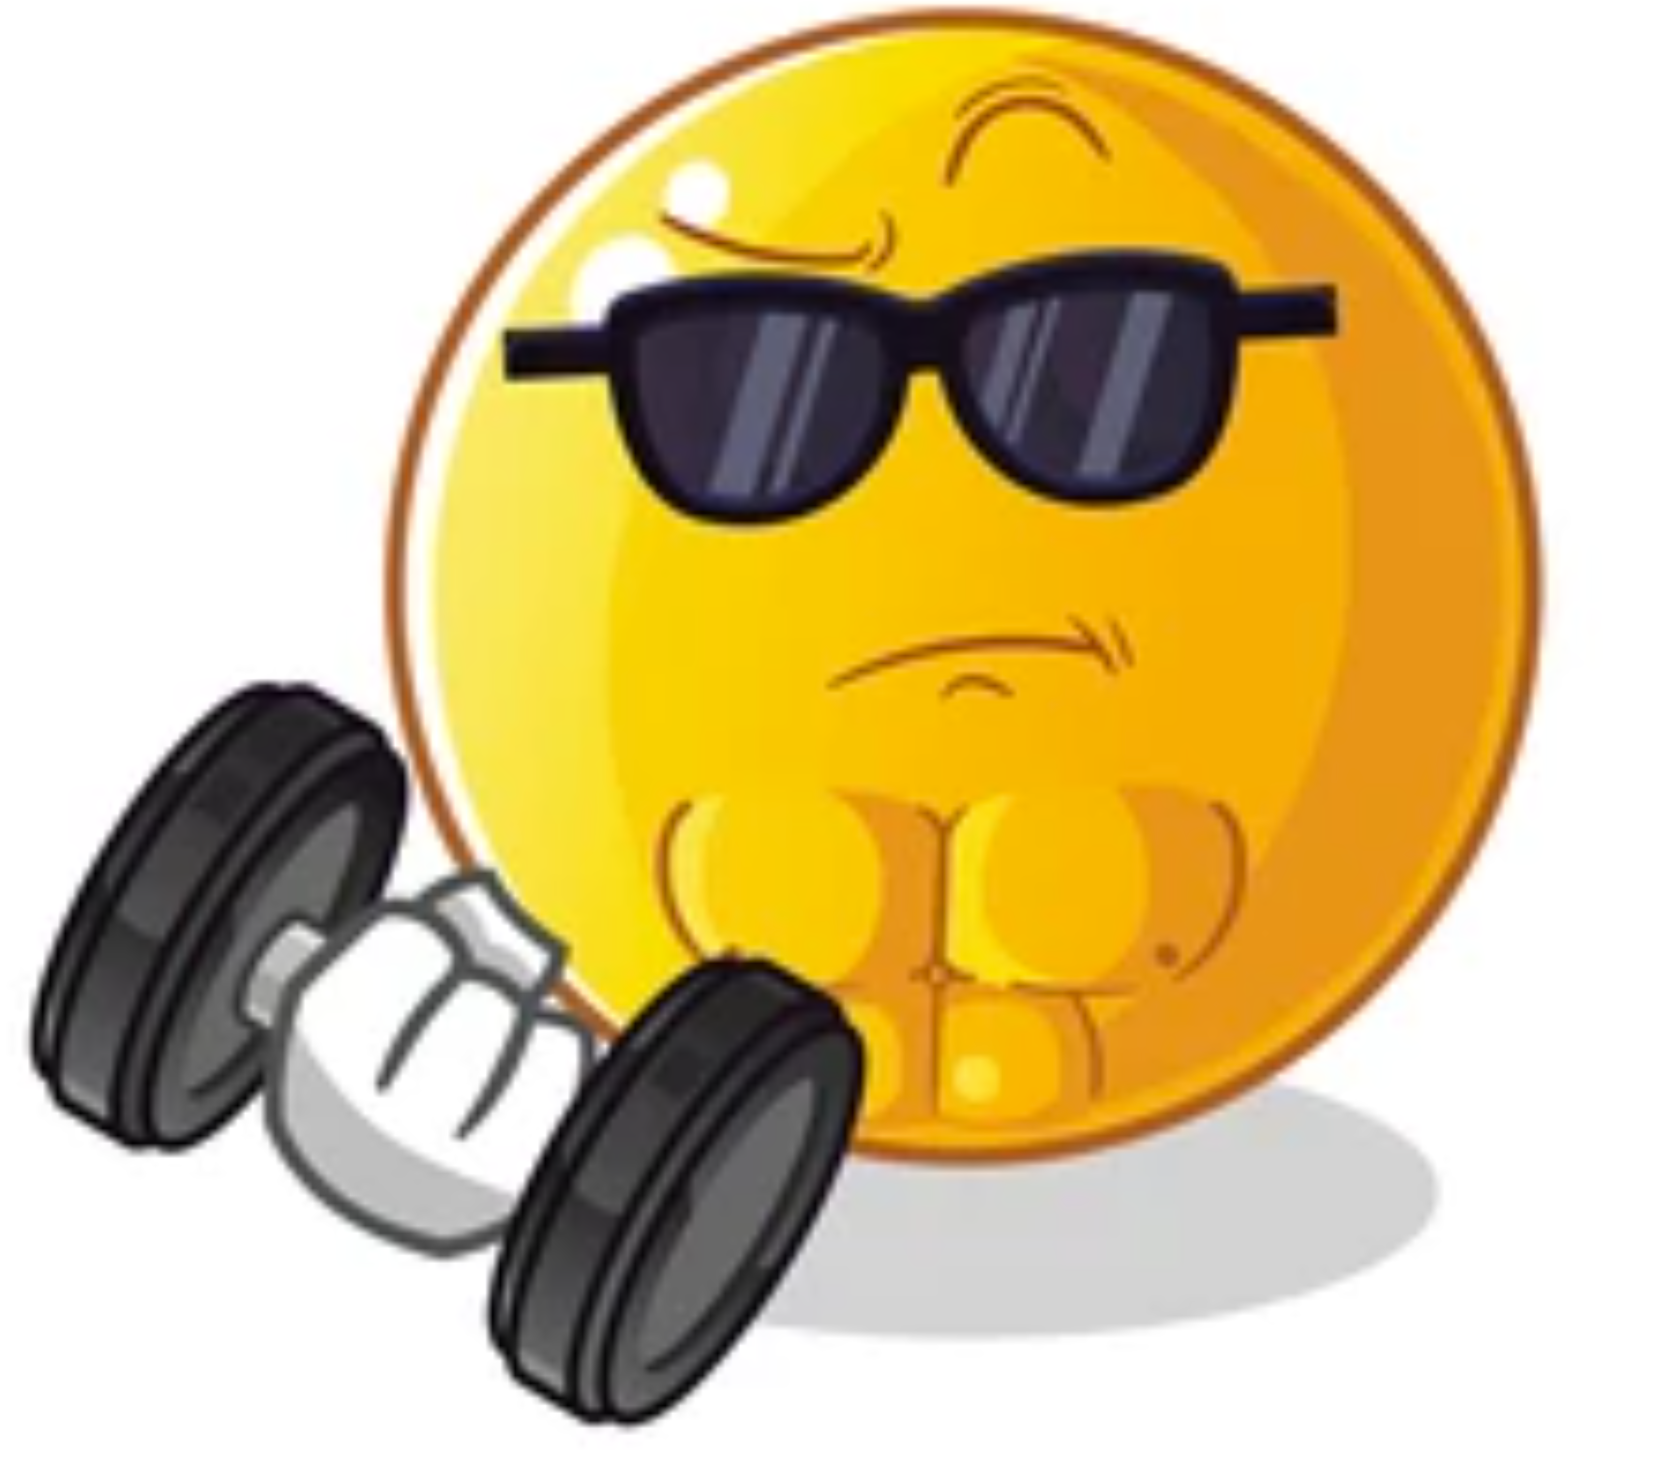
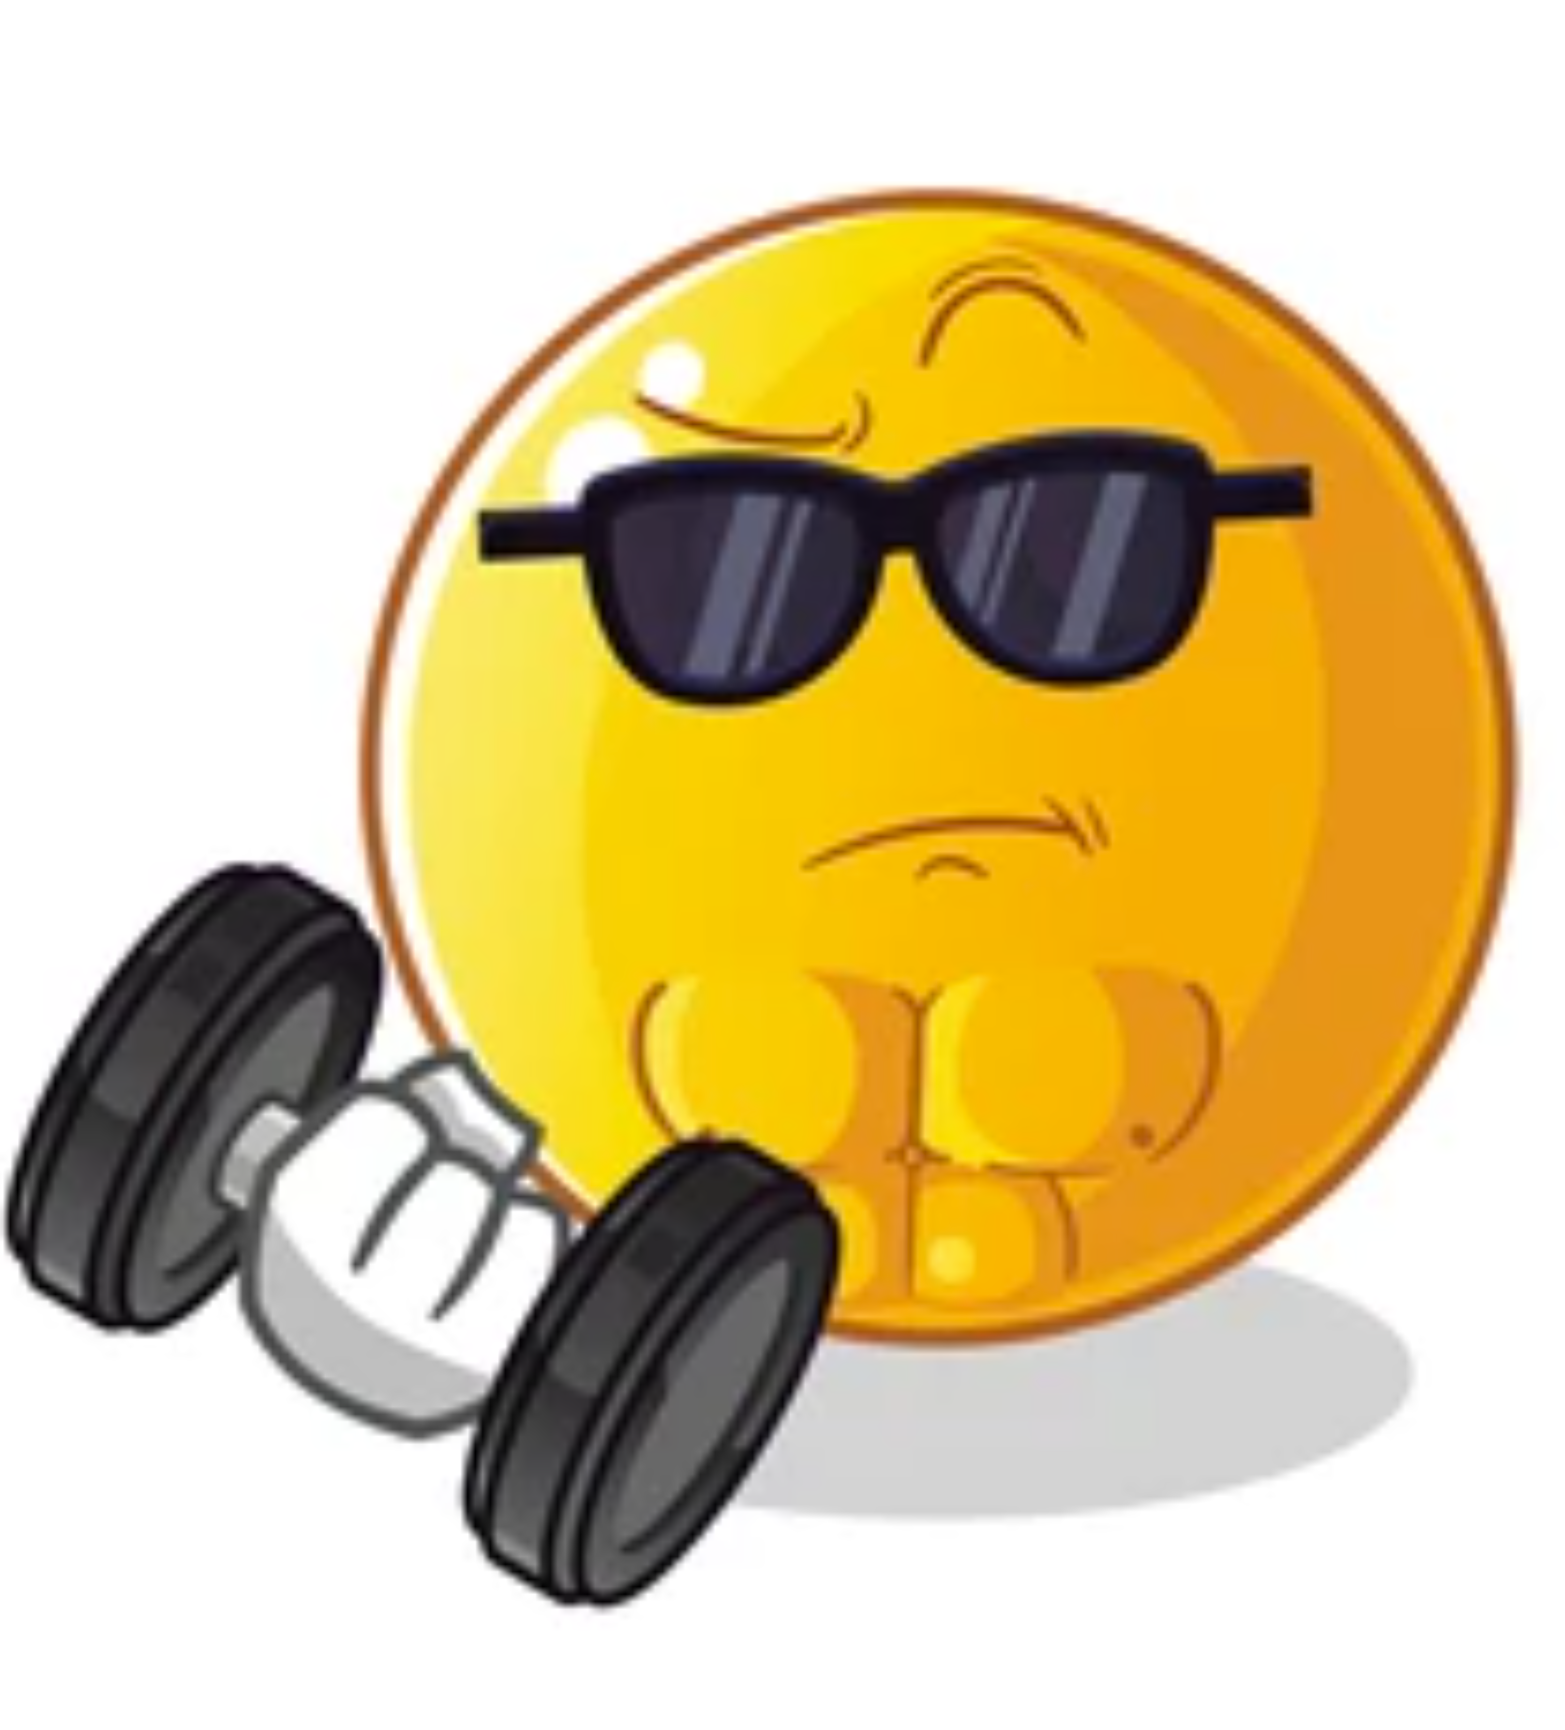
changed picture for top left, added it as a source so it appears

diff --git a/index.html b/index.html
@@ -14,7 +14,7 @@
         <nav class="navbar" role="navigation" aria-label="main navigation">
             <div class="navbar-brand">
               <a class="navbar-item" href="https://bulma.io">
-                <img src="https://bulma.io/images/bulma-logo.png" width="112" height="28">
+                <img src="https://raw.githubusercontent.com/Frank-Seelmann/StrongerWorkoutApp/main/workoutEmoji.PNG" width="112" height="28">
               </a>
           
               <a role="button" class="navbar-burger" aria-label="menu" aria-expanded="false" data-target="navbarBasicExample">
